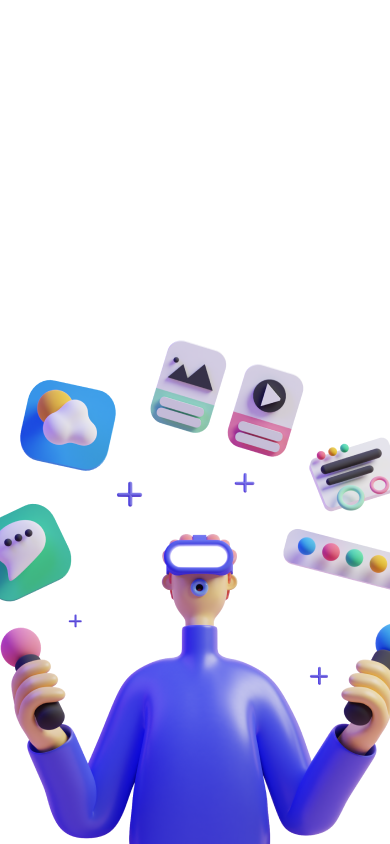
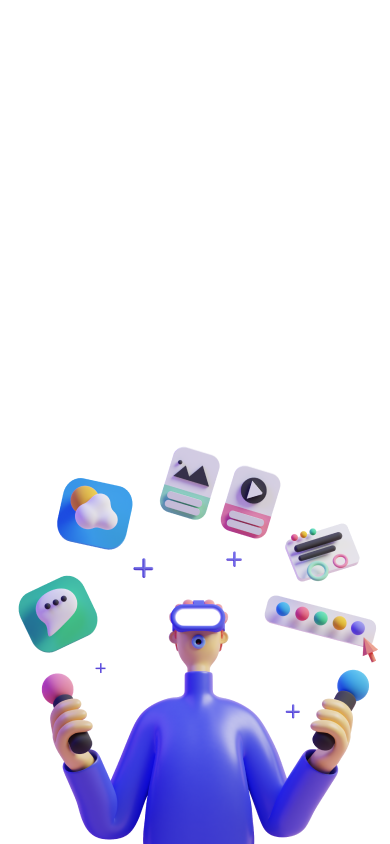
responsive changes

Changed region(s): [[0.0, 0.4005, 1.0, 1.0], [0.4, 0.8626, 0.4308, 0.8934], [0.2462, 0.7701, 0.2769, 0.8009]]

diff --git a/src/flat/Landing/index.tsx b/src/flat/Landing/index.tsx
@@ -1,6 +1,7 @@
 import { Container, Col, Row, Text, Image, Link } from "@nextui-org/react";
-import { ParagraphProps } from "./interface";
+import Header from "../Header";
 import useMediaQuery from "../../hooks/useMediaQuery";
+import { ParagraphProps } from "./interface";
 
 function Landing() {
   const isMobile = useMediaQuery("(max-width: 480px)");
@@ -8,6 +9,7 @@ function Landing() {
 
   return (
     <>
+      <Header />
       <div style={{ position: "relative", minHeight: "100vh" }}>
         <Container
           fluid
@@ -39,16 +41,23 @@ function Landing() {
             <Container
               css={{
                 height: "100%",
-                justifyContent: "center",
-                alignItems: "center",
                 display: "flex",
+                paddingTop: 120,
+                paddingLeft: '$9',
+                paddingRight: '$9',
+                '@sm': {
+                  paddingLeft: '$20',
+                  paddingRight: '$20',
+                  paddingTop: 200
+                }
               }}
             >
               <Text
                 h1
                 css={{
                   // textGradient: "45deg, $blue500 -20%, $pink500 50%",
-                  maxWidth: "600px",
+                  maxWidth: "400px",
+                  margin: 0,
                   lineHeight: 1,
                   fontSize: 40,
                   "@xs": {

diff --git a/src/flat/Header/index.tsx b/src/flat/Header/index.tsx
@@ -1,0 +1,48 @@
+import { Container, Image } from "@nextui-org/react";
+
+function Header() {
+  return (
+    <Container
+      display="flex"
+      justify="center"
+      alignItems="center"
+      css={{
+        padding: 0,
+        width: "100%",
+        height: 80,
+        position: "absolute",
+      }}
+    >
+      <Container
+        display="flex"
+        justify="center"
+        alignItems="center"
+        css={{
+          top: 0,
+          left: 0,
+          paddingLeft: "$9",
+          paddingRight: "$9",
+          "@sm": {
+            paddingLeft: "$20",
+            paddingRight: "$20",
+          },
+        }}
+      >
+        <Image
+          src="/thlogo.png"
+          css={{
+            height: 40,
+            width: 40,
+            "@sm": {
+              height: 50,
+              width: 50,
+            },
+          }}
+        />
+        <div style={{ flex: 1 }}></div>
+      </Container>
+    </Container>
+  );
+}
+
+export default Header;
